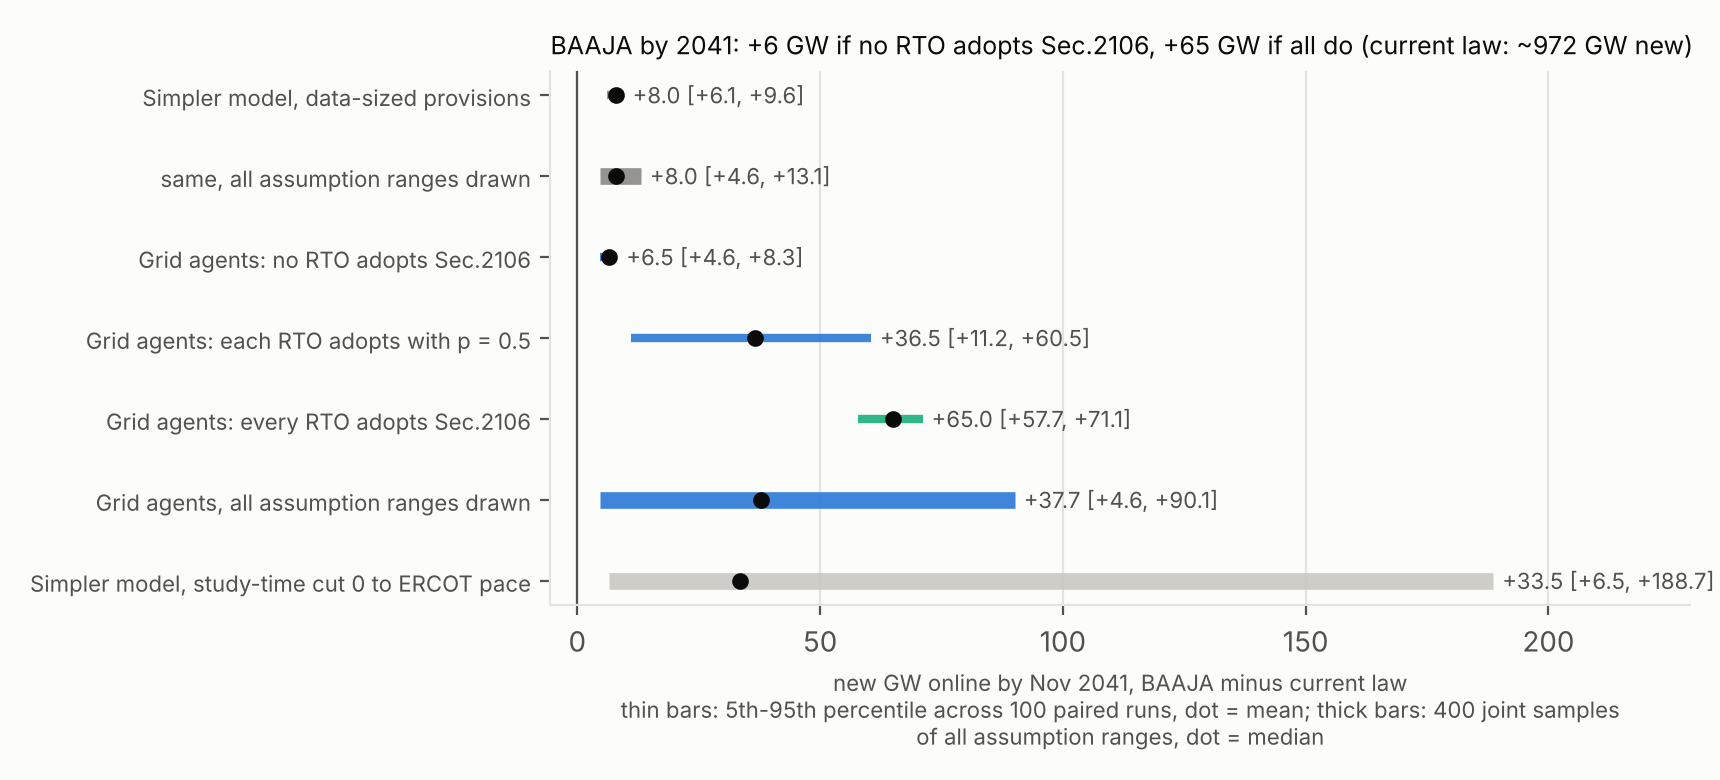
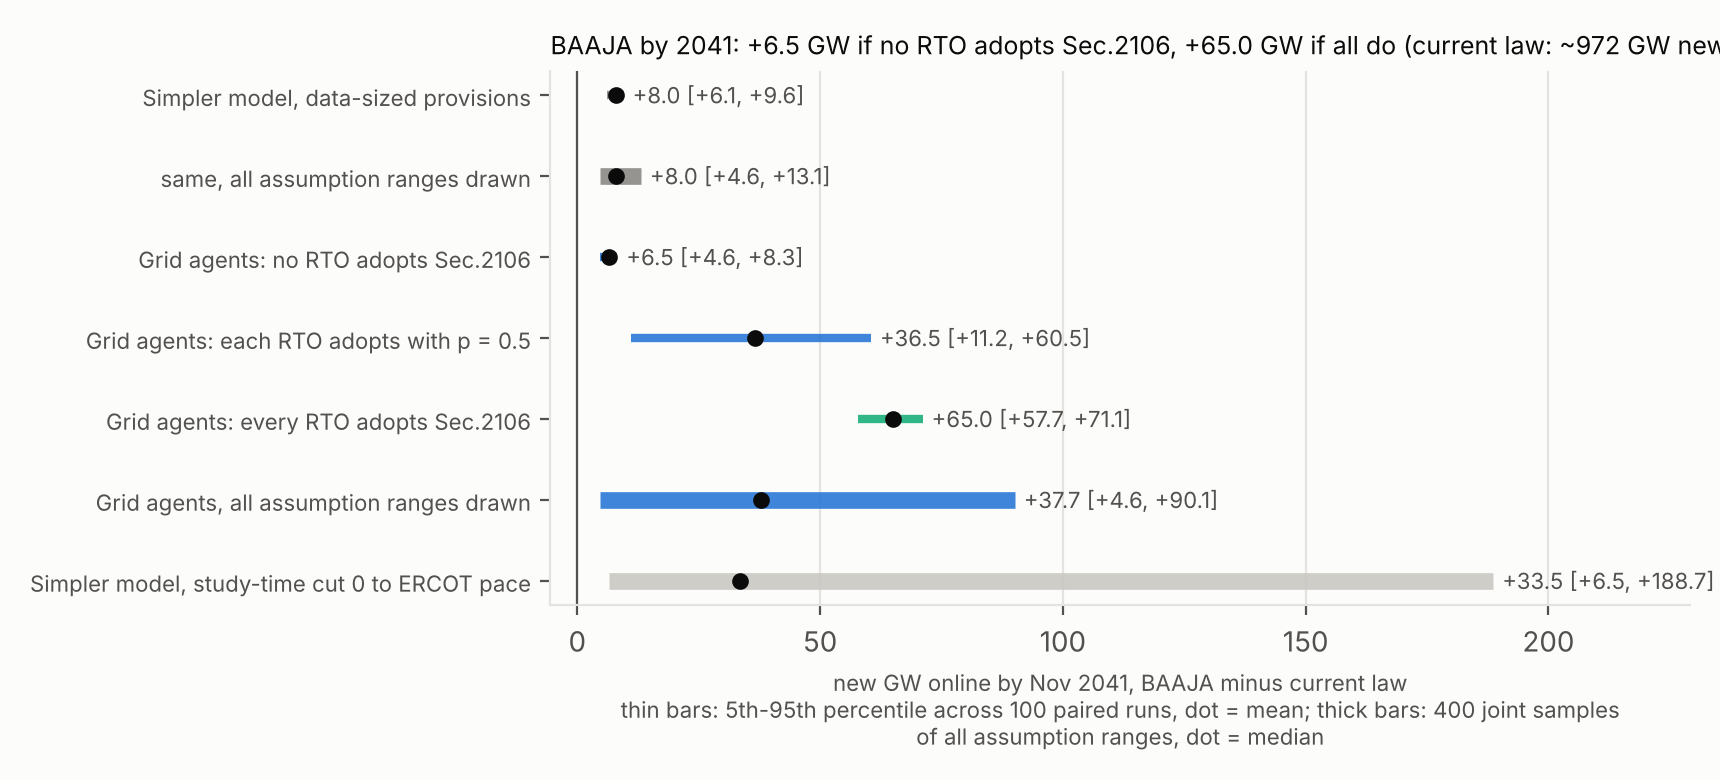
Figure 1 title to one decimal, matching the brief
Claude-Session: https://claude.ai/code/session_01GDxCQ74zWfkXRRHvDcr5pD

Changed region(s): [[0.4622, 0.0308, 1.0, 0.0923]]

diff --git a/baaja/brief_figures.py b/baaja/brief_figures.py
@@ -44,8 +44,8 @@ def headline(res_dir, path):
                   "runs, dot = mean; thick bars: 400 joint samples\nof all assumption ranges, dot = median",
                   fontsize=8)
     law = r["Current law"]["totals"][G]["mean"]
-    ax.set_title(f"BAAJA by 2041: {d('BAAJA without Sec.2106')['mean']:+.0f} GW if no RTO adopts Sec.2106, "
-                 f"{d('BAAJA, Sec.2106 adopted by every RTO')['mean']:+.0f} GW if all do (current law: ~{law:,.0f} GW new)",
+    ax.set_title(f"BAAJA by 2041: {d('BAAJA without Sec.2106')['mean']:+.1f} GW if no RTO adopts Sec.2106, "
+                 f"{d('BAAJA, Sec.2106 adopted by every RTO')['mean']:+.1f} GW if all do (current law: ~{law:,.0f} GW new)",
                  loc="left", fontsize=9)
     fig.tight_layout(); fig.savefig(path, dpi=200); plt.close(fig)
 
